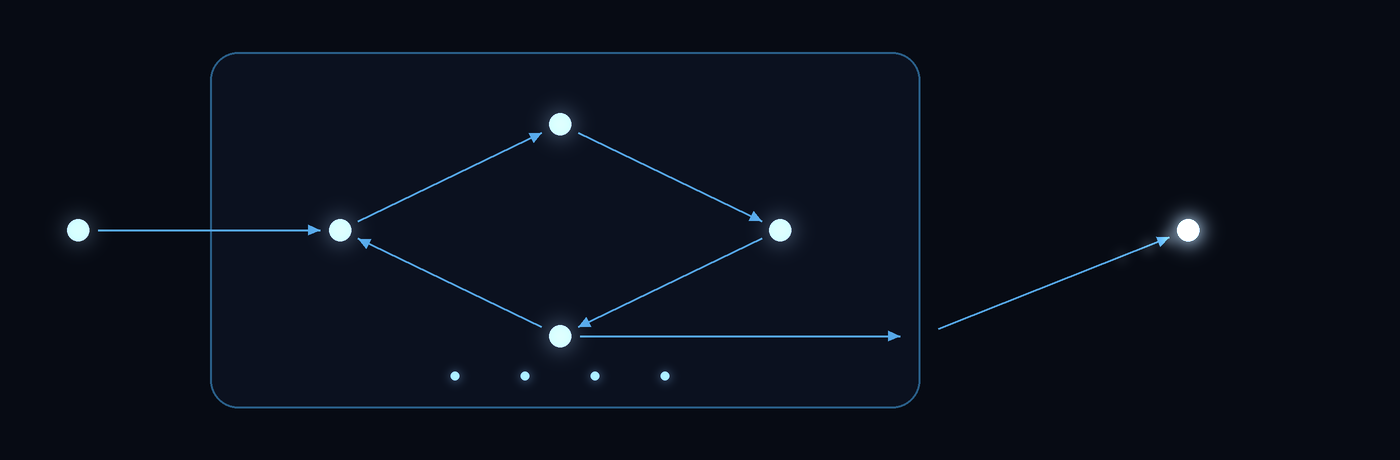
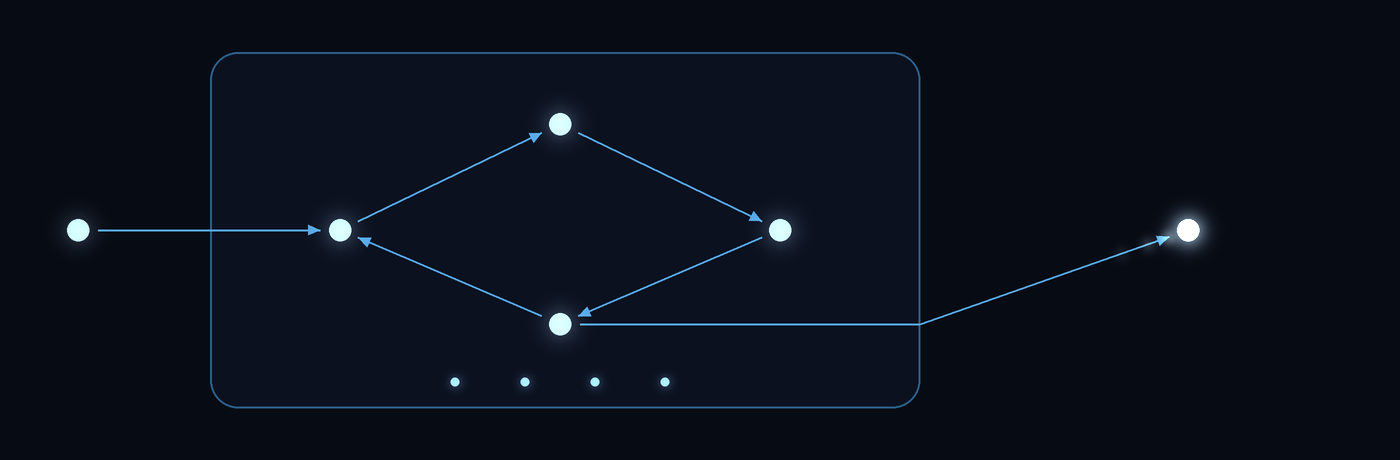
fix(readme): atualizar descrição da imagem do cabeçalho
PT:
A descrição da imagem do cabeçalho no README.md foi atualizada para refletir com mais precisão o conteúdo da animação, que agora representa "An agent run inside the engine". Essa mudança visa melhorar a clareza e a relevância da apresentação visual do projeto.

EN:
The header image description in README.md has been updated to more accurately reflect the content of the animation, which now represents "An agent run inside the engine". This change aims to enhance the clarity and relevance of the project's visual presentation.

diff --git a/assets/generate-perfil-topo-gif.py b/assets/generate-perfil-topo-gif.py
@@ -18,11 +18,11 @@ W, H = 1400, 460
 GIF_W = 1000
 SCALE = 2
 
-N_REST = 6
-N_MOVE = 48
-FRAME_MS = 85
+N_REST = 4
+N_MOVE = 42
+FRAME_MS = 100
 PAUSE_MS = 800
-PALETTE_COLORS = 112
+PALETTE_COLORS = 128
 
 BG = (7, 11, 20)
 ENGINE_FILL = (11, 17, 31)
@@ -45,22 +45,23 @@ INPUT = (78, 230)
 CONTEXT = (340, 230)
 REASONING = (560, 124)
 TOOL = (780, 230)
-OBSERVATION = (560, 336)
-WALL = (920, 336)
+OBSERVATION = (560, 324)
+WALL = (920, 324)
 RESULT = (1188, 230)
 
 # Quatro indicadores na base: acendem com contexto, raciocínio, ferramenta e observação.
-DOTS = ((455, 376), (525, 376), (595, 376), (665, 376))
+DOTS = ((455, 382), (525, 382), (595, 382), (665, 382))
 
 PATH = [INPUT, CONTEXT, REASONING, TOOL, OBSERVATION, WALL, RESULT]
 RETURN = (OBSERVATION, CONTEXT)
+# gap na saída e na chegada; o ponto da borda não é nó, então a linha atravessa o motor.
 EDGES = (
-    (INPUT, CONTEXT),
-    (CONTEXT, REASONING),
-    (REASONING, TOOL),
-    (TOOL, OBSERVATION),
-    (OBSERVATION, WALL),
-    (WALL, RESULT),
+    (INPUT, CONTEXT, INSET, INSET, True),
+    (CONTEXT, REASONING, INSET, INSET, True),
+    (REASONING, TOOL, INSET, INSET, True),
+    (TOOL, OBSERVATION, INSET, INSET, True),
+    (OBSERVATION, WALL, INSET, 0, False),
+    (WALL, RESULT, 0, INSET, True),
 )
 
 
@@ -78,13 +79,21 @@ def dist(a: tuple[float, float], b: tuple[float, float]) -> float:
 
 
 def inset_segment(
-    a: tuple[float, float], b: tuple[float, float], gap: float
+    a: tuple[float, float],
+    b: tuple[float, float],
+    gap_a: float,
+    gap_b: float,
 ) -> tuple[tuple[float, float], tuple[float, float]]:
     length = dist(a, b)
-    if length <= gap * 2:
+    if length < 1:
         return a, b
+    if gap_a + gap_b >= length:
+        gap_a = length * 0.2
+        gap_b = length * 0.2
     ux, uy = (b[0] - a[0]) / length, (b[1] - a[1]) / length
-    return (a[0] + ux * gap, a[1] + uy * gap), (b[0] - ux * gap, b[1] - uy * gap)
+    start = (a[0] + ux * gap_a, a[1] + uy * gap_a)
+    end = (b[0] - ux * gap_b, b[1] - uy * gap_b)
+    return start, end
 
 
 def build_samples(step: float = 7.0) -> list[tuple[float, float, int, float]]:
@@ -131,13 +140,16 @@ def draw_edge(
     fill: tuple[int, int, int],
     progress: float,
     width: int,
+    gap_a: float = INSET,
+    gap_b: float = INSET,
+    arrow: bool = True,
 ) -> None:
     if progress <= 0.02:
         return
-    start, end = inset_segment(a, b, INSET)
+    start, end = inset_segment(a, b, gap_a, gap_b)
     tip = lerp(start, end, min(1.0, progress))
     draw.line([sc(start), sc(tip)], fill=fill, width=width)
-    if progress >= 0.96:
+    if arrow and progress >= 0.96:
         draw_arrow(draw, start, end, fill)
 
 
@@ -161,6 +173,14 @@ def add_glow(
     sigma = max(1.0, radius * 0.7)
     glow = np.exp(-((yy - cy) ** 2 + (xx - cx) ** 2) / (2 * sigma * sigma)) * strength
     img[y0:y1, x0:x1] += glow[..., None] * color
+
+
+def _amber(seg: int, local: float) -> float:
+    if seg == 2:
+        return min(1.0, max(0.0, (local - 0.28) / 0.32))
+    if seg == 3:
+        return min(1.0, max(0.0, 1.0 - max(0.0, local - 0.05) / 0.5))
+    return 0.0
 
 
 def arrival(seg: int, local: float, gate: int) -> float:
@@ -215,16 +235,12 @@ def render(sample: tuple[float, float, int, float] | None, samples_behind: list[
     else:
         seg, local = sample[2], sample[3]
         packet = (sample[0], sample[1])
-        amber = 0.0
-        if seg == 2:
-            amber = min(1.0, max(0.0, (local - 0.45) / 0.4))
-        elif seg == 3:
-            amber = min(1.0, max(0.0, 1.0 - local / 0.42))
+        amber = _amber(seg, local)
 
-    for index, (a, b) in enumerate(EDGES):
-        draw_edge(draw, a, b, EDGE_DIM, 1.0, 4)
+    for index, (a, b, gap_a, gap_b, arrow) in enumerate(EDGES):
+        draw_edge(draw, a, b, EDGE_DIM, 1.0, 4, gap_a, gap_b, arrow)
         lit = edge_progress(seg, local, index)
-        draw_edge(draw, a, b, EDGE_LIT, lit, 4)
+        draw_edge(draw, a, b, EDGE_LIT, lit, 4, gap_a, gap_b, arrow)
 
     ret = 1.0 if arrival(seg, local, 3) > 0.85 else 0.0
     draw_edge(draw, RETURN[0], RETURN[1], EDGE_DIM, 1.0, 4)
@@ -289,8 +305,8 @@ def render(sample: tuple[float, float, int, float] | None, samples_behind: list[
     if packet is not None:
         tone = PACKET * (1 - amber) + PACKET_AMBER * amber
         for index, point in enumerate(samples_behind):
-            fade = 0.16 * (1 - index / max(1, len(samples_behind)))
-            add_glow(img, point[0], point[1], 9, fade, tone)
+            fade = (0.3, 0.16, 0.07)[index] if index < 3 else 0.05
+            add_glow(img, point[0], point[1], 8, fade, tone)
         add_glow(img, packet[0], packet[1], 15, 0.42, tone)
         add_glow(img, packet[0], packet[1], 4.5, 0.85, np.array([245, 250, 255], dtype=np.float32))
 
@@ -317,10 +333,12 @@ def main() -> None:
         frame.resize((GIF_W, gif_h), Image.Resampling.LANCZOS) for frame in frames
     ]
     sheet = Image.new("RGB", (GIF_W, gif_h * 4))
-    picks = (0, len(gif_frames) // 3, (2 * len(gif_frames)) // 3, len(gif_frames) - 1)
+    peak = max(range(len(samples)), key=lambda i: _amber(samples[i][2], samples[i][3]))
+    amber_frame = N_REST + int(round(peak / (len(samples) - 1) * (N_MOVE - 1)))
+    picks = (0, max(0, amber_frame - 8), amber_frame, len(gif_frames) - 1)
     for row, index in enumerate(picks):
         sheet.paste(gif_frames[index], (0, row * gif_h))
-    palette = sheet.quantize(colors=PALETTE_COLORS, method=Image.Quantize.MEDIANCUT)
+    palette = sheet.quantize(colors=PALETTE_COLORS, method=Image.Quantize.FASTOCTREE)
     quantized = [
         frame.quantize(palette=palette, dither=Image.Dither.NONE) for frame in gif_frames
     ]

diff --git a/README.md b/README.md
@@ -1,5 +1,5 @@
 <p align="center">
-  <img src="./assets/perfil-topo.gif" width="100%" alt="Agentic AI graph animation" />
+  <img src="./assets/perfil-topo.gif" width="100%" alt="An agent run inside the engine" />
 </p>
 
 <h1 align="center">Vinícius Berto</h1>
